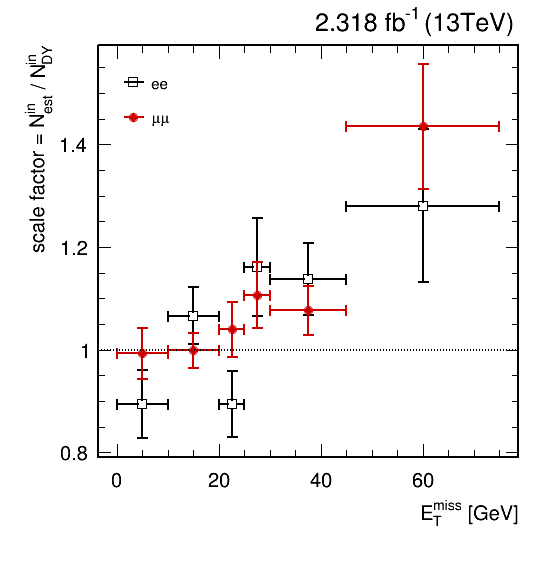
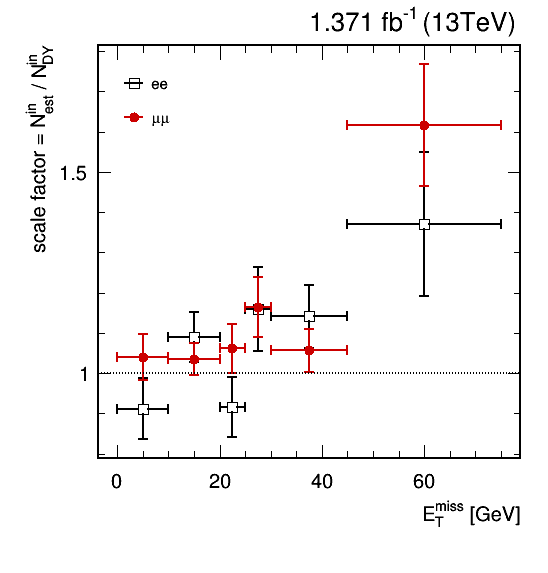
Fixed typo in DYScale. Thanks Barbara

diff --git a/datadriven/getDYScale.C b/datadriven/getDYScale.C
@@ -1,8 +1,29 @@
-#include "../include/Constants.h"
-
-
 // Constants
 //------------------------------------------------------------------------------
+const double lumi_fb = 1.371;
+
+enum {
+  ee,
+  mm,
+  em,
+  ll,
+  nchannel  // This line should be always last
+};
+
+const TString schannel[nchannel] = {
+  "ee",
+  "mm",
+  "em",
+  "ll"
+};
+
+const TString lchannel[nchannel] = {
+  "ee",
+  "#mu#mu",
+  "e#mu",
+  "ll"
+};
+
 const float   zmin =  76;  // [GeV]
 const float   zmax = 106;  // [GeV]
 
@@ -90,16 +111,10 @@ int          bin_metmax;
 //    (1) k_ee  = 0.5 * sqrt(n_ee / n_mm);
 //    (2) scale = (n_in_ee - n_in_wz - n_in_zz - k_ee * n_in_em) / n_in_dy;
 //
-// Results for MET > 40 GeV and 2.318 fb-1,
+// Results for MET > 45 GeV and 1.371 fb-1,
 //
-//    ee SF(est/DY) = 1.284 +- 0.117
-//    mm SF(est/DY) = 1.225 +- 0.079
-//
-// Results for MET > 40 GeV and 2.318 fb-1
-// when the peaking backgrounds are not considered,
-//
-//    ee SF(est/DY)  1.305 +- 0.118
-//    mm SF(est/DY)  1.242 +- 0.079
+//    ee SF(est/DY)  1.370 +- 0.179
+//    mm SF(est/DY)  1.617 +- 0.151
 //
 //~~~~~~~~~~~~~~~~~~~~~~~~~~~~~~~~~~~~~~~~~~~~~~~~~~~~~~~~~~~~~~~~~~~~~~~~~~~~~~
 void getDYScale(TString analysis = "TTDM")
@@ -213,8 +228,8 @@ void getDYScale(TString analysis = "TTDM")
       mgraph[k]->GetXaxis()->SetTitle("E_{T}^{miss} [GeV]");
       mgraph[k]->GetYaxis()->SetTitle("R^{out/in} = N^{out} / N^{in}");
 
-      mgraph[k]->SetMinimum(-0.06);
-      mgraph[k]->SetMaximum(+0.40);
+      mgraph[k]->SetMinimum(0.0);
+      mgraph[k]->SetMaximum(0.6);
 
       DrawLegend(0.22, 0.83, (TObject*)graph_R_data[k], " " + lchannel[k] + " estimated (data)");
       DrawLegend(0.22, 0.77, (TObject*)graph_R_dy  [k], " " + lchannel[k] + " DY");
@@ -378,7 +393,7 @@ void GetScale(int    ch,
   R_data_error = errRatio(n_out_est, err_out_est, n_in_est, err_in_est);
 
   R_dy_value = n_out_dy / n_in_dy;
-  R_dy_error = errRatio(n_out_est, err_out_est, n_in_est, err_in_est);
+  R_dy_error = errRatio(n_out_dy, err_out_dy, n_in_dy, err_in_dy);
 
   scale_value = n_in_est / n_in_dy;
   scale_error = errRatio(n_in_est, err_in_est, n_in_dy, err_in_dy);
